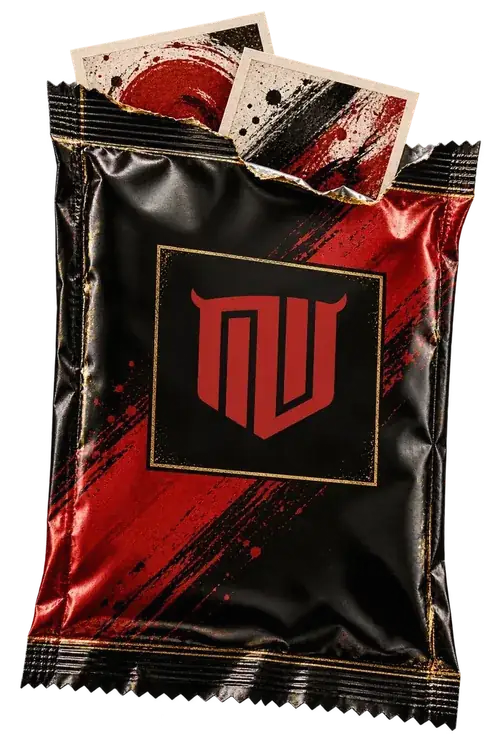
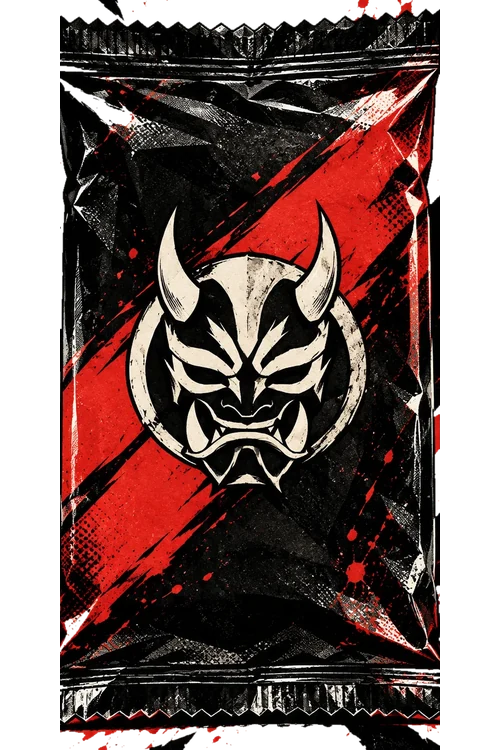
Visuels : nouveaux en-têtes (club, effectif, recrutement, vestiaire, boosters), kanji au pinceau du héros, sceau, pochette, album, inhouses, bloc staff ; images du bot ; kanji et sceau dans le kit de marque

diff --git a/src/styles/global.css b/src/styles/global.css
@@ -616,7 +616,7 @@ main { counter-reset: page; }
 /* Accueil : couverture de l'album */
 .album-intro { display: grid; grid-template-columns: minmax(0, 1fr) minmax(0, 1.1fr); gap: clamp(2rem, 5vw, 4rem); align-items: center; margin-bottom: clamp(2.5rem, 5vw, 4rem); }
 .album-intro .section__head { margin-bottom: 0; }
-.album-intro__cover { position: relative; display: block; }
+.album-intro__cover { position: relative; display: block; justify-self: center; width: min(100%, 26rem); }
 .album-intro__cover > img:last-child { position: relative; rotate: 2deg; box-shadow: 0 18px 40px var(--shadow); transition: rotate .4s ease, translate .4s ease; }
 .album-intro__cover:hover > img:last-child { rotate: 0deg; translate: 0 -6px; }
 .eclat { position: absolute; width: 45%; height: auto; right: -6%; top: -12%; opacity: .12; filter: brightness(0); }
@@ -638,7 +638,7 @@ main { counter-reset: page; }
 
 /* Recrutement : la pochette de vignettes à côté du staff */
 .staff-intro { display: grid; grid-template-columns: minmax(0, 1fr) auto; gap: 2rem; align-items: center; }
-.staff-intro__pack { width: clamp(8rem, 16vw, 13rem); height: auto; rotate: 6deg; filter: drop-shadow(0 16px 24px var(--shadow)); margin-bottom: 2rem; }
+.staff-intro__pack { width: clamp(9rem, 18vw, 15rem); height: auto; rotate: 3deg; box-shadow: 0 16px 32px var(--shadow); margin-bottom: 2rem; }
 @media (max-width: 720px) { .staff-intro { grid-template-columns: 1fr; } .staff-intro__pack { display: none; } }
 
 :root:not([data-theme="dark"]) .section--bone { background: none; }
@@ -883,7 +883,6 @@ main { counter-reset: page; }
   background: url(/img/hanko-oni.webp) center / contain no-repeat; rotate: -12deg; pointer-events: none;
   filter: drop-shadow(0 1px 1px rgb(0 0 0 / .4));
 }
-.page-head__bg--album { object-position: 85% 30%; opacity: .45; }
 [hidden] { display: none !important; }
 
 /* ---------- Séries spéciales ---------- */
@@ -1038,3 +1037,9 @@ main { counter-reset: page; }
 .next-rdv .agenda__all { display: none; }
 .next-rdv .agenda { margin-bottom: 0; }
 @media (max-width: 1180px) and (min-width: 861px) { .nav__brand span { position: absolute; width: 1px; height: 1px; overflow: hidden; clip: rect(0 0 0 0); } }
+
+/* Boosters : la couverture de l'album à côté de « Ma collection » */
+.coll-head { display: flex; align-items: end; justify-content: space-between; gap: 2rem; margin-bottom: clamp(1.5rem, 3vw, 2.5rem); }
+.coll-head .section__head { margin-bottom: 0; }
+.coll-head__album { width: clamp(7rem, 16vw, 13rem); height: auto; rotate: -3deg; box-shadow: 0 16px 32px var(--shadow); flex: none; }
+@media (max-width: 600px) { .coll-head__album { display: none; } }

diff --git a/src/lib/img.js b/src/lib/img.js
@@ -18,7 +18,12 @@ export const variants = {
   'entete-contact': [800, 2000],
   'entete-postuler': [800, 2000],
   'bandeau-pinceau': [800, 2000],
-  'album-couverture': [800, 1400],
+  'entete-boosters': [800, 2000],
+  'album-couverture': [560, 1122],
+  'accueil-album': [560, 1122],
+  'accueil-inhouses': [800, 1586],
+  'recrutement-staff-bloc': [530, 1060],
+  'kanji-oni-pinceau': [600, 1100],
   'match-showmatch': [800, 1600],
   'match-cup': [800, 1600],
   'match-lol': [800, 1600],
